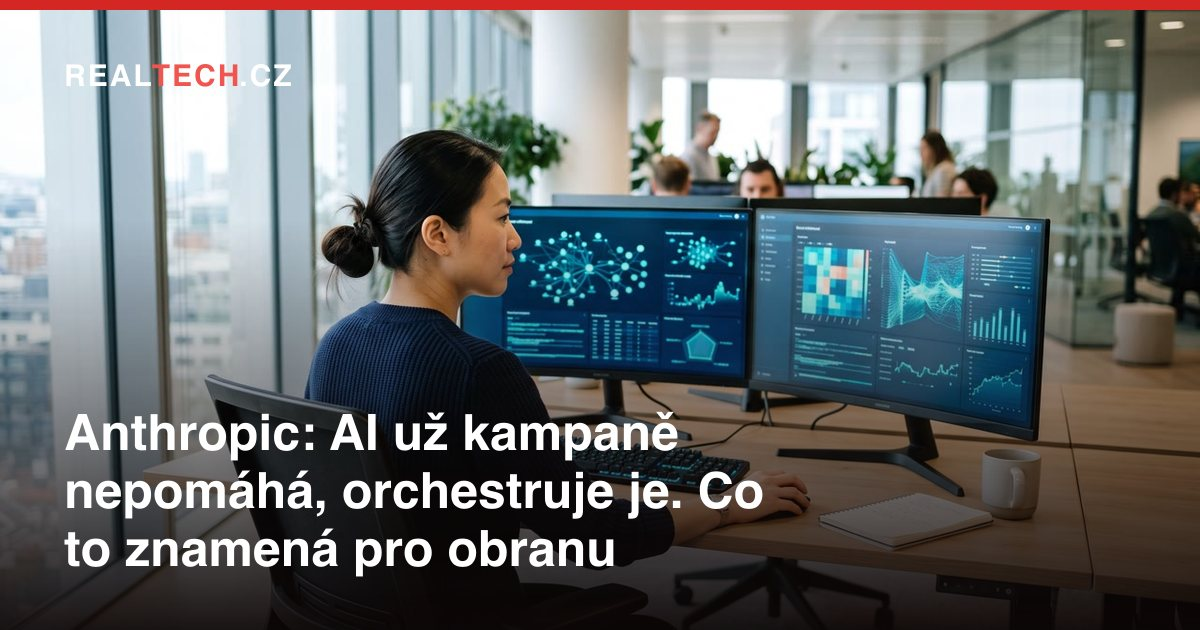
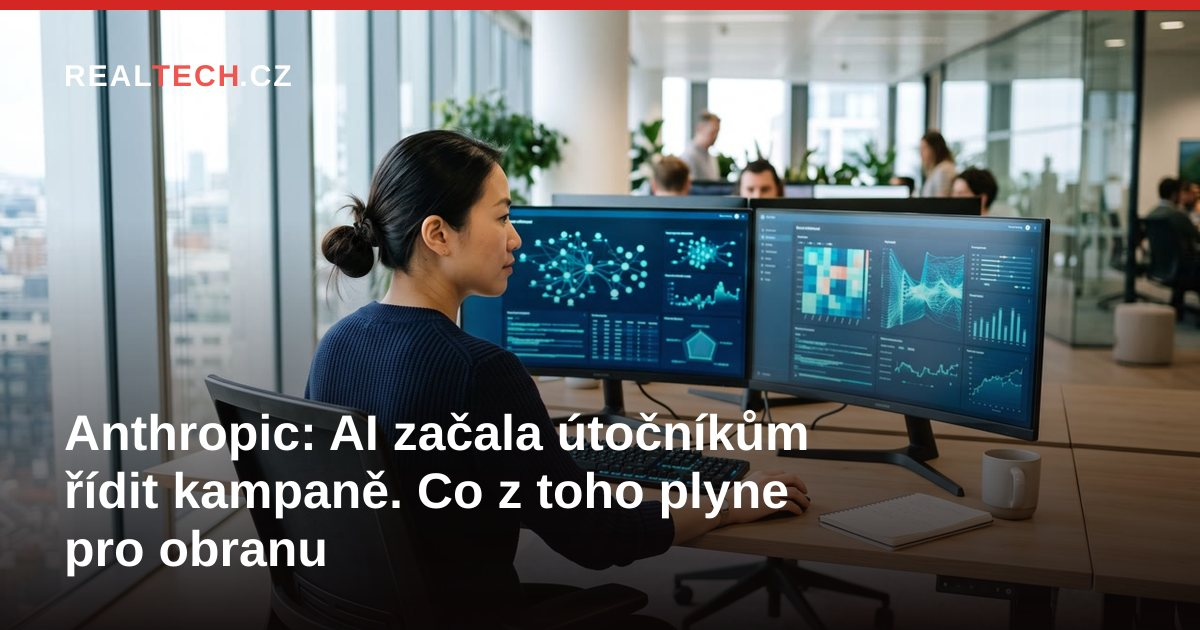
Oprava nadpisu a popisu: Anthropic TI report (#441)
Nový title a description ve frontmatteru, přegenerovaný OG obrázek
(fingerprint je odvozený z titulku). Tělo článku beze změny.

diff --git a/src/content/clanky/anthropic-threat-report-ai-orchestruje-kampane.md b/src/content/clanky/anthropic-threat-report-ai-orchestruje-kampane.md
@@ -1,6 +1,6 @@
 ---
-title: "Anthropic: AI už kampaně nepomáhá, orchestruje je. Co to znamená pro obranu"
-description: "154stránkový Threat Intelligence Report (prosinec 2025–srpen 2026): sedm oblastí škod, Midnight Blizzard vůči UA/EU, ShinyHunters, 5 bio a 6 zbraňových případů. AI jako orchestrátor. Decision rules pro obránce."
+title: "Anthropic: AI začala útočníkům řídit kampaně. Co z toho plyne pro obranu"
+description: "154 stran, osm měsíců, sedm oblastí škod. Midnight Blizzard míří na Ukrajinu a EU, ShinyHunters bere přihlášení za hodiny. Osm pravidel pro obranu."
 category: "AI Report"
 date: "2026-09-11T14:31:36+02:00"
 zprava: true
